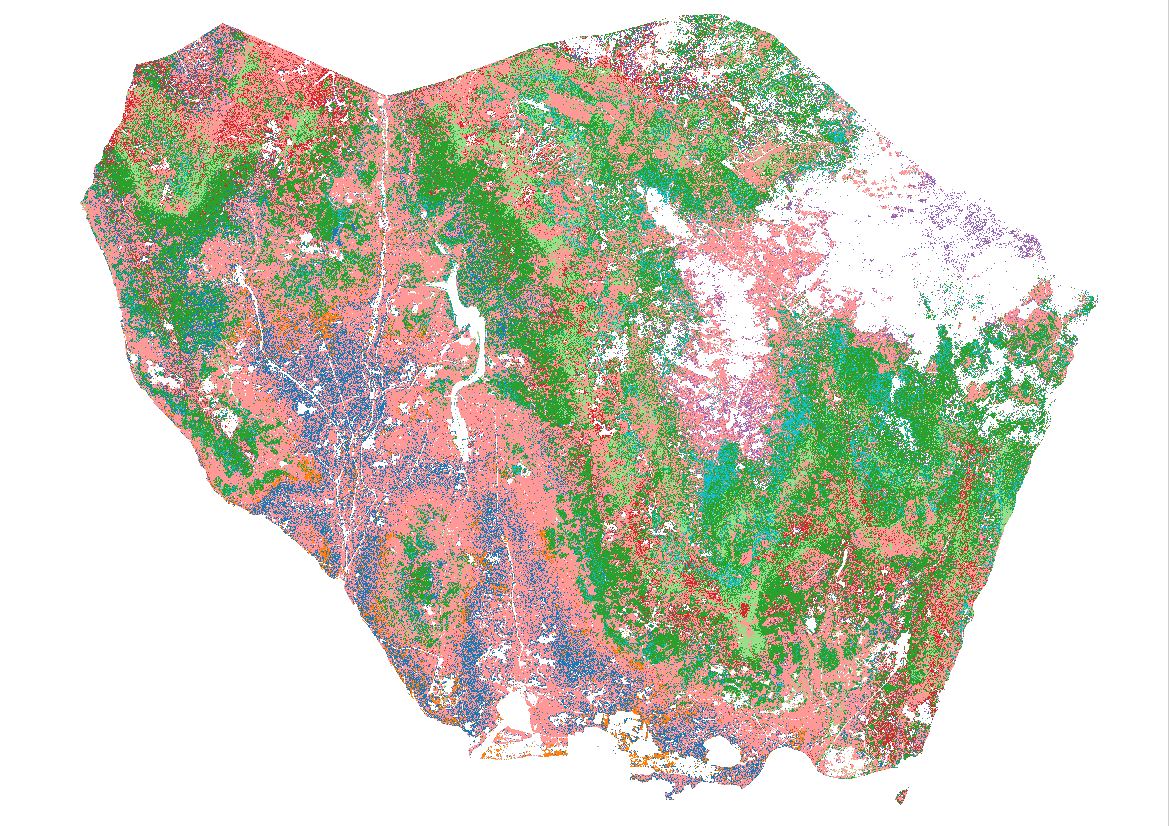
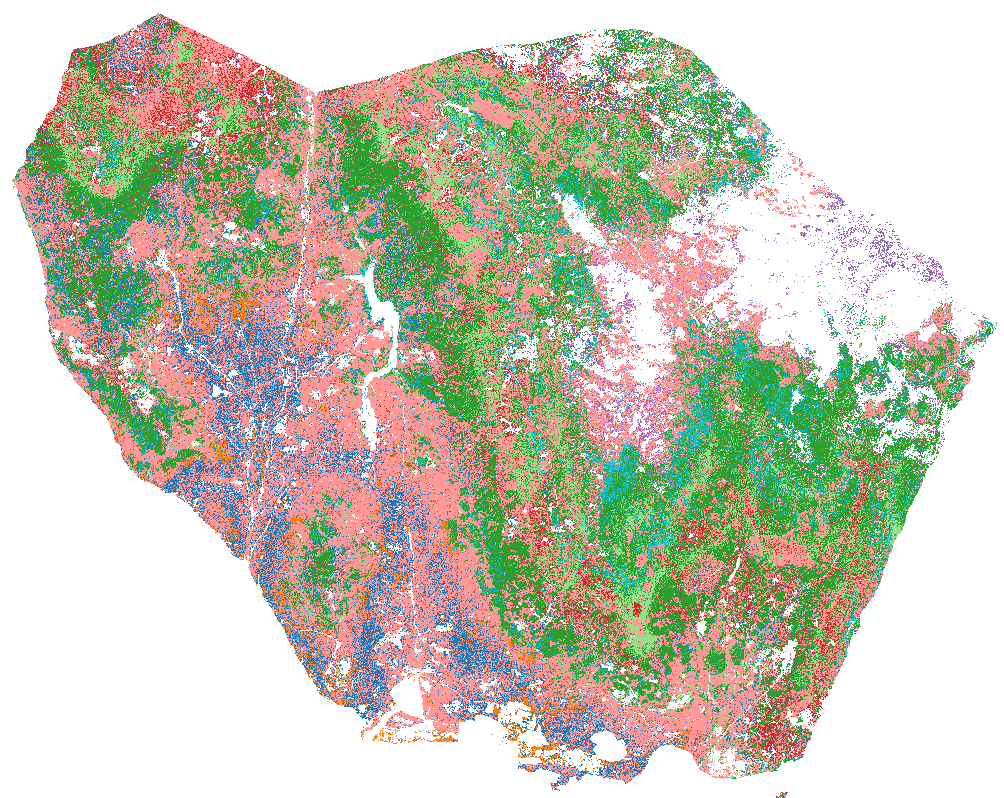
final

diff --git a/index.html b/index.html
@@ -879,7 +879,7 @@
 									<div id="spacor"></div>						
 									<div id="pm" class="box"></div><span class="speciestext">Pseudotsuga menziesii</span>
 								</div>
-								<img src="img/Swirfull_BS_False_DTM_True.png"  class="second" style=" position: relative; bottom: 40px;left:75px; background:none; border:none; box-shadow:none;width: 81%;">
+								<img src="img/Swirfull_BS_False_DTM_True.png"  class="second" style="position: relative; bottom: 40px; left:40px; background:none; border:none; box-shadow:none;width: 70%;">
 							</div>
 							<div id="swirfull" style="position: absolute; width: 40vh; height: 25vh; margin-top: 35%; max-width: 45%;"></div>
 						</section>
